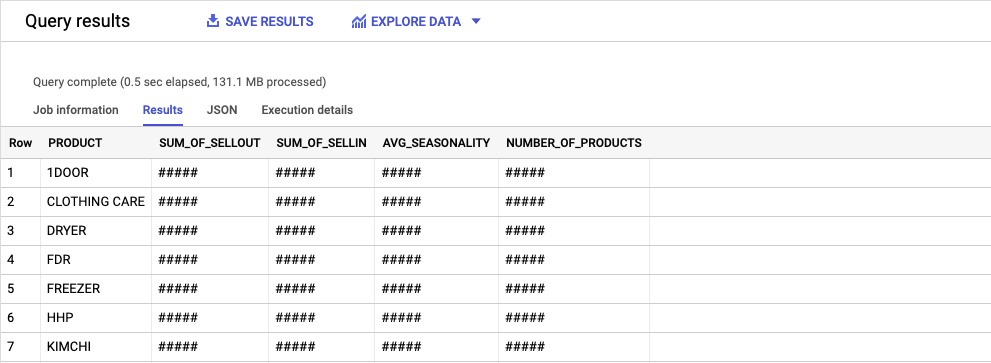
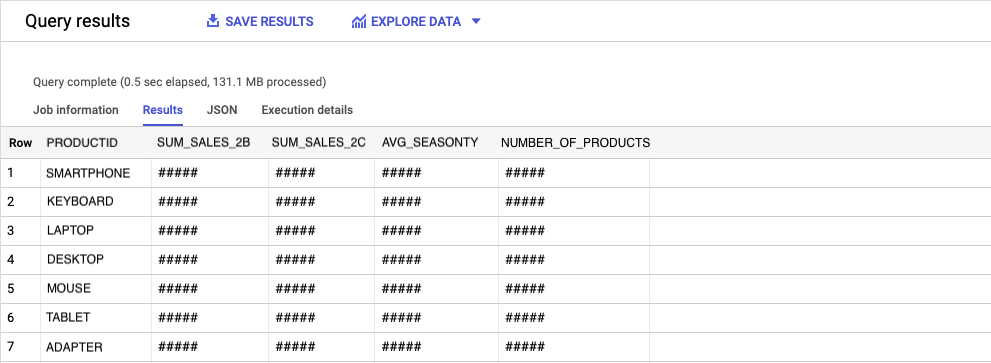
anonymization of content

diff --git a/_posts/2021-08-10-SQL.md b/_posts/2021-08-10-SQL.md
@@ -1,0 +1,223 @@
+---
+Layout: post
+Published: true
+title: "Starting up with GCP and SQL"
+feature-img: "/assets/img/Charlie/bigquery logo.jpg"
+thumbnail: "/assets/img/Charlie/bigquery logo.jpg"
+date: 2021-08-10
+excerpt: "Quick and simple tutorial on how to use BigQuery and SQL"
+tags: [SQL, BigQuery, tutorial]
+author: charlie
+---
+
+# Starting up with GCP and SQL
+
+Useful links:
+
+> [GCP Dashboard](https://console.cloud.google.com/home/dashboard?project=utopian-surface-268707 "Google Cloud Platform Home")
+>
+> [SQL Language basic functions](https://cloud.google.com/bigquery/docs/reference/standard-sql/aggregate_analytic_functions " Aggregate analytic functions in Standard SQL")
+
+## BigQuery and Datasets
+
+![Bigquery-home](/assets/img/Charlie/Bigquery-home.png)
+
+
+
+From the tab on the left click on BigQuery, a list of project appears on left, choose one and create a dataset if necessary, add data to it, in the form of a table - CSV file for exemple. 
+
+GCP accepts following files to import a table:
+
+* CSV
+* JSON
+* AVRO
+* Parquet
+* ORC
+
+After the table is imported it is ready to be used, queried in BigQuery.
+
+### View, format and wrangle tables in BigQuery
+
+There are 3 tabs after you open a table in GCP's BigQuery editor:
+
+- **Schema:** See the columns/features of your table in a list form, with information about their type
+- **Details:** See informations about the Table: ID, size, number of rows...
+- **Preview:** See your CSV file converted into a table format
+
+
+
+To start a new Query, click on the Query button on the top right of the screen. 
+
+The window divides in two and an SQL environment opens. It should look like something like this:
+
+```sql
+ SELECT FROM `YOUR TABLE ID` LIMIT 1000
+```
+
+- `SELECT`: allows you to select specific columns to visualize after processing your Query. `*` to visualize all columns.
+
+- `FROM`: is what tells the environment where to look for selected columns
+
+- `LIMIT`: allows to set a limit of number of rows after which the Query won't process.
+
+With for example the Company A data, we only want to see _countries_, _product_, _sell out_, _sell in_ and _account seasonality_:
+
+Each column name should be separated by a comma:
+
+```sql
+SELECT
+Country,
+Productid,
+Sales_2C,
+Sales_2B,
+Seasonality
+FROM `utopian-surface-268707.Charlie_uscentral1.CompanyA_origin_29w`
+-- Limit not necessary, we want all data to be sorted through.
+```
+
+We can now run the query, press `RUN` or keybord shortcut ⌘ + ↵.
+
+The table appears in bottom left corner and we should be able to see only the columns we've selected. Now, maybe it would be more interesting to sort the table and group the PRODUCTIDs by products.
+
+```sql
+SELECT
+  PRODUCTID,  
+  cast(sum (Sales_2C) as STRING FORMAT '999,999,999.99') as SUM_SALES_2C,
+  cast(sum (Sales_2B) as STRING FORMAT '999,999,999.99') as SUM_SALES_2B,
+  avg (Seasonality) as AVG_SEASONTY,
+  count(*) as NUMBER_OF_PRODUCTS,
+  FROM
+  `utopian-surface-268707.Charlie_uscentral1.CompanyA_origin_29w`  
+group by PRODUCTID
+order by PRODUCTID
+```
+
+![Bigquery-table-result](/assets/img/Charlie/Bigquery-table-result.png)
+
+Functions used here: 
+
+- `group by`: Group unique values
+-  `order by`: Order the columns in a `desc` or `asc` order. Ascending (Alphabetically) order by default
+-  `sum`: Sum the numbers of the column
+-  `avg`: Average the numbers of the column
+-  `count`:  Count the number of rows
+-  `cast`: Convert a number/string format to another
+
+More about `cast` and conversions in this [link](https://cloud.google.com/bigquery/docs/reference/standard-sql/conversion_rules "Conversion rules in Standard SQL") 
+
+Only one column can be grouped at a time. This is the reason why you have to tell BigQuery what to do with other columns. Here, summing up Sales 2B and Sales 2B together and averaging the seasonality seemed to make sense.
+
+Adding a count column was to know how many PRODUCTIDs there are in each product.
+
+- `STRING FORMAT` allows formatting of numbers. `999,999,999.99` indicates that numbers should be separated by commas and decimals with a dot.
+
+### Example in practice: Company A's data preparation for sales forecasting
+
+Now that we know our way around basic SQL and BigQuery, we can start working on real data.
+
+Company A wants us to predict worldwide stores sell-out for the next 10 weeks. They sell a variety of technology products - TVs, phones, keyboards etc.
+
+They will provide us a table with all necessary data for the predictions: stock, seasonality, target countries and dates... 
+We will determine which is relevant and we will format the table so GCP knows where to read the input data and create the output prediction data.
+
+| Row  | COUNTRY | STOREID | SALESID | PRODUCTGROUP | PRODUCT | PRODUCTID | TARGET_WEEK | TARGET_WEEK_YMD | SALES_2C | STOCK | SALES_2B | SEASONALITY      |
+| ---- | ------- | ------- | ------- | ------------ | ------- | --------- | ----------- | --------------- | -------- | ----- | -------- | ---------------- |
+| 1    | XXX     | XXXXXX  | XXXXX   | MOBILE       | HHP     | XXXXX     | 202021      | 2020-05-21      | 2        | 4     | 4        | 0.93724374992765 |
+| 2    | XXX     | XXXXXX  | XXXXX   | KEYBOARD     | QWERT   | XXXXX     | 202021      | 2020-05-21      | 1        | 3     | 3        | 0.93724374992765 |
+
+The table has to be prepared for Vertex AI, google's tool for AutoML and the one we'll be using to obtain sell out predictions.
+
+We need two tables to achieve this: A training table, and an input table. The training table contains all the data that Vertex will be using to create a model. The input table is the table that Vertex AI will fill out with the prediction data extracted from the model. 
+
+#### The training table
+
+The training table should have the same columns you'll be using in the final prediction, and should only have the rows with actual data.  Empty rows and those used for the prediction should be removed.
+
+First thing to do is remove rows that will contain prediciton data or are not relevant to our prediction. We have the target week column containing dates from 202021 to 202149. We don't need such a big window so we'll only keep the past YTD: 202101 to 202128. This is done with the `WHERE` function of BigQuery.
+
+```sql
+create or replace table `utopian-surface-268707.Charlie_uscentral1.Company A_training_table` as 
+
+SELECT
+  COUNTRY,
+  STOREID,
+  PRODUCTID,
+  SALES_2C,
+  SALES_2B,
+  STOCK,
+  SEASONALITY,
+  TARGET_WEEK,
+  TARGET_WEEK_YMD
+FROM `utopian-surface-268707.Charlie_uscentral1.ConpanyA_origin_29w`
+
+where TARGET_WEEK between "202101" and "202128" 
+order by TARGET_WEEK
+```
+
+New functions used here: 
+
+- `create table`: Tell BigQuery to create a table. The statement is followed by `projectID.DataSet.new_table_name` and `as`
+- `create or replace table`: similar to `create table` except if a table with the same name already exist, it will replace it.
+- `where`: the condition statement, you only want the data `where` the target week is between x and y.
+- `between`...`and`: operators that tells `where` which data to keep.
+
+#### The prediction table
+
+The prediciton table should have a similar structure to that of the training table. It should contain every row from the ones used in training to the ones corresponding to your prediction window.
+
+We will predict sell-out for a 10 weeks window. In that forecast window, the rows for which the future is unpredictable should be empty, `null`. Rows for which we know the value in the future are ones like Seasonality. We know the seasonality of Christmas, but we don't know the stock level of next Christmas for sure. this is done by creating columns with the same name as in the training table, but of which rows are empty/null.
+
+In order for the table to have both filled-in past data and null future data, we will use the union all function.
+
+```sql
+CREATE OR REPLACE TABLE
+`utopian-surface-268707.Charlie_uscentral1.CompanyA_predict_table_unionized` AS
+SELECT
+  COUNTRY,
+  STOREID,
+  PRODUCTID,
+  SALES_2C,
+  SALES_2B,
+	STOCK,
+  SEASONALITY,
+  TARGET_WEEK,
+  TARGET_WEEK_YMD
+FROM
+  `utopian-surface-268707.Charlie_uscentral1.CompanyA_origin_29w`
+WHERE
+  TARGET_WEEK BETWEEN "202101"
+  AND "202128" 
+UNION ALL
+SELECT
+  COUNTRY,
+  STOREID,
+  PRODUCTID,
+  NULL AS SALES_2C,
+  NULL AS SALES_2B,
+  NULL AS STOCK,
+  SEASONALITY,
+  TARGET_WEEK,
+  TARGET_WEEK_YMD
+
+FROM
+  `utopian-surface-268707.Charlie_uscentral1.CompanyA_origin_29w`
+WHERE
+  TARGET_WEEK BETWEEN "202129"
+  AND "202138"
+ORDER BY TARGET_WEEK DESC
+```
+
+New function used here: 
+
+- `union all`: is used to merge two tables (here).
+
+-----
+
+From these queries, we've created two tables:
+
+- `utopian-surface-268707.Charlie_uscentral1.CompanyA_training_table`
+  The training table we'll upload to Vertex AI and from which AutoML will create a model
+- `utopian-surface-268707.Charlie_uscentral1.CompanyA_predict_table_unionized`
+  The table we'll feed Vertex AI in order for it to add a column with the predicted data. It contains past data and the necessary rows (corresponding to the prediction window) that Vertex AI will use to estimate the prediction.
+
+The next article will be about using Vertex AI: creating a model, predicting with it and putting it all in one table.
